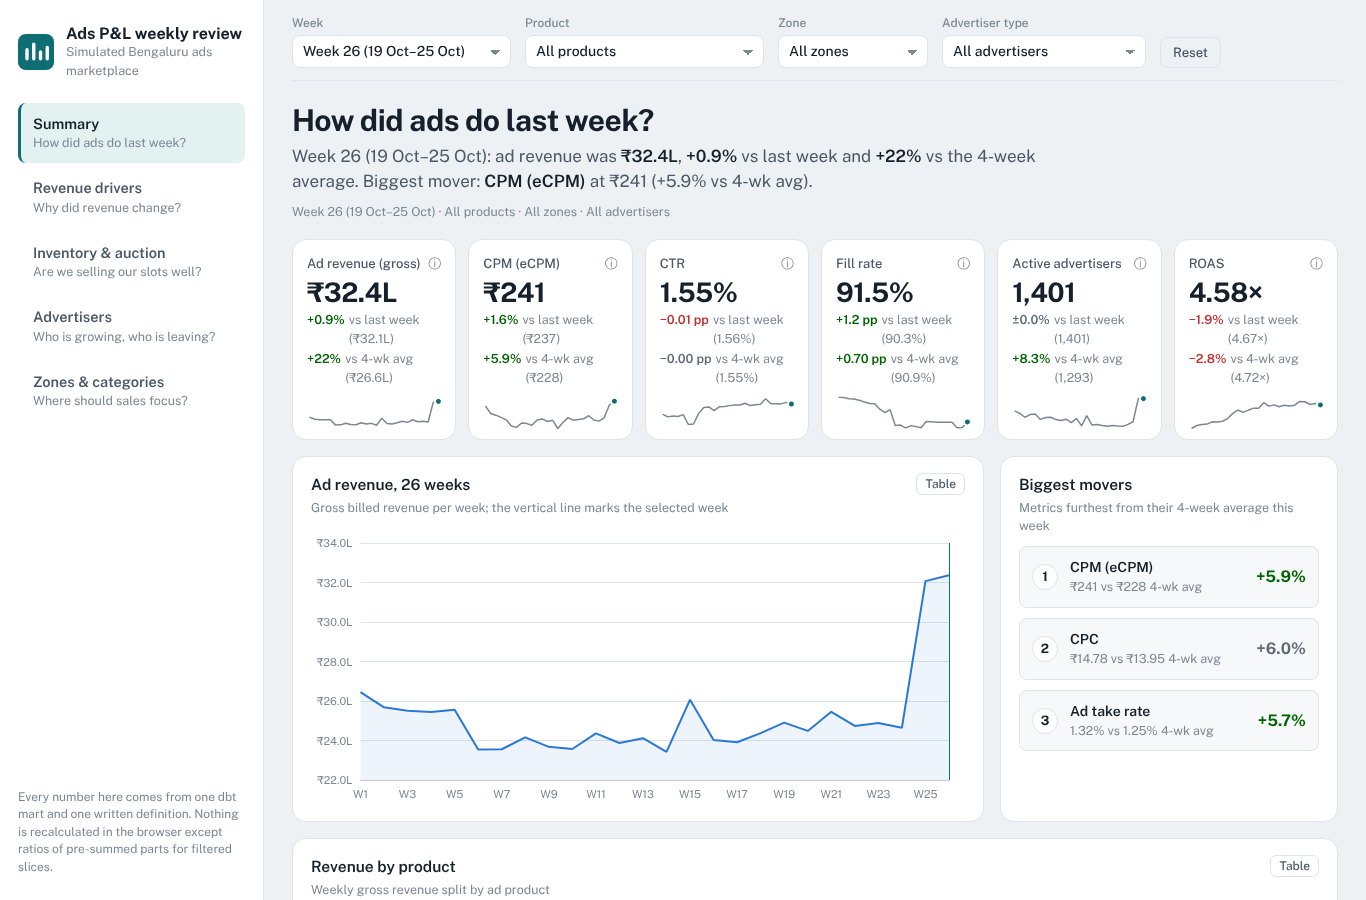
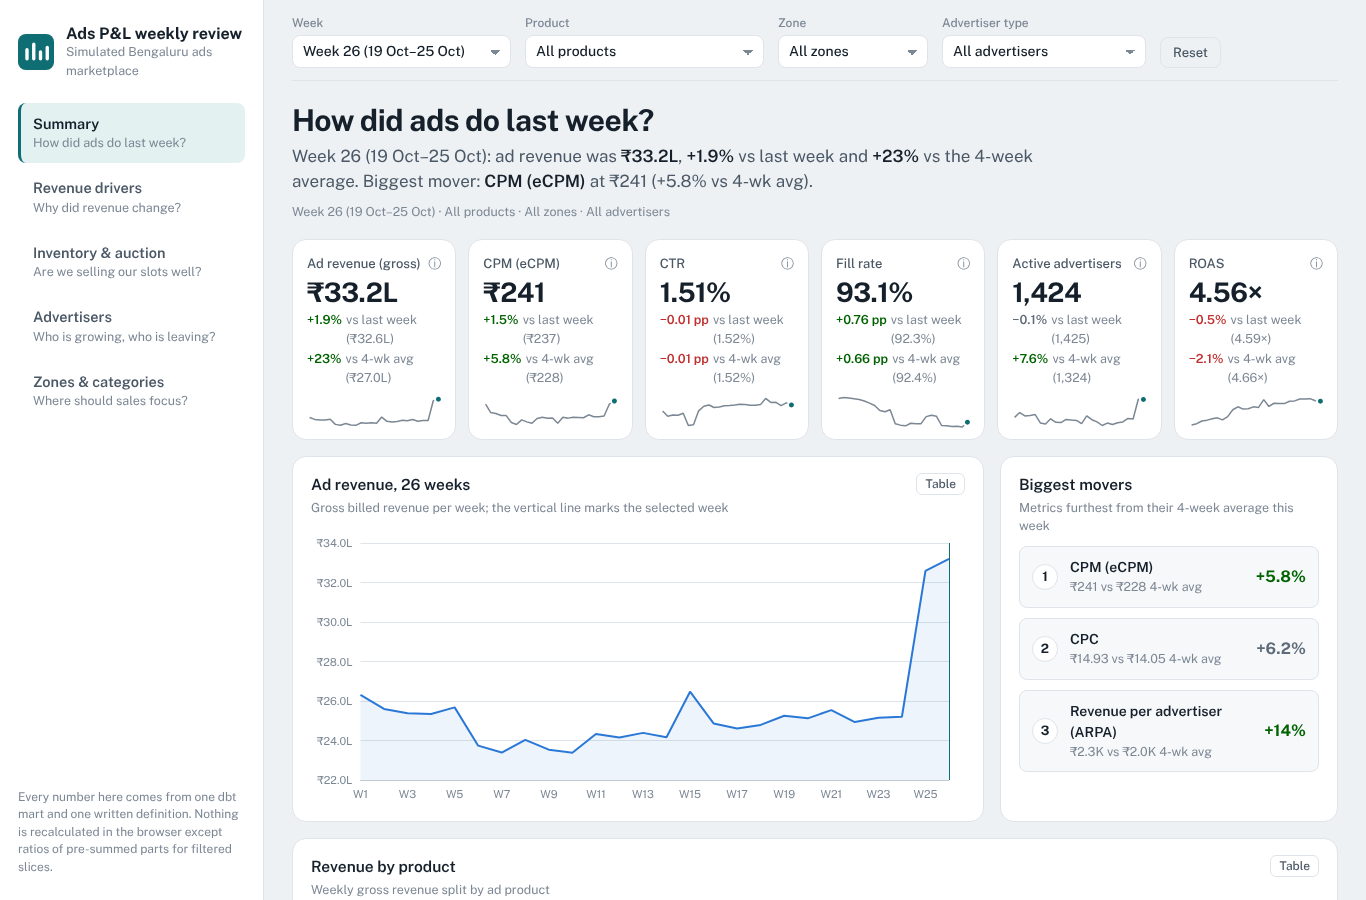
README and showcase: final numbers and screenshots; Sheets README

diff --git a/docs/showcase.md b/docs/showcase.md
@@ -4,16 +4,16 @@
 
 ## Resume bullets
 
-- Built an end-to-end **ads P&L reporting system** for a simulated Bengaluru food + quick-commerce ads marketplace. It covers **~290 M impressions, 4.4 M clicks and 2,300 advertisers over 26 weeks**, using Python, dbt and DuckDB (BigQuery-ready), with automated weekly refreshes on GitHub Actions.
+- Built an end-to-end **ads P&L reporting system** for a simulated Bengaluru food + quick-commerce ads marketplace. It covers **~295 M impressions, 4.4 M clicks and 2,300 advertisers over 26 weeks**, using Python, dbt and DuckDB (BigQuery-ready), with automated weekly refreshes on GitHub Actions.
 - Defined **24 ads KPIs** (revenue, eCPM, CTR, fill rate, ROAS, bid density, reserve-binding rate, budget utilisation, churn…) in a single dbt metric catalogue, guarded by **91 automated data-quality tests**: reconciliation to billing, no-overspend, completeness, and grain uniqueness.
 - Shipped a **5-page live dashboard** and a **Google Sheets variance model**. Both include a revenue bridge that splits each weekly change into requests, fill rate, CTR and CPC, and the bridge reconciles to the rupee.
-- Diagnosed **7 planted KPI anomalies** and wrote one-page WBRs. One example: an 8% CTR drop traced to a single Android ad slot (₹1.35 L/week). Another: a reserve-price change that raised banner CPM 10% but cut banner revenue 18%. A third: a one-day CTR dip proven to be a logging gap, not a business change.
+- Diagnosed **7 planted KPI anomalies** and wrote one-page WBRs. One example: an 8% CTR drop traced to a single Android ad slot (₹1.36 L/week). Another: a reserve-price change that raised banner CPM 8% but cut banner revenue 9%. A third: a one-day CTR dip proven to be a logging gap, not a business change.
 
 ## 2-minute interview story
 
 1. **Why.** Ads is a high-margin growth line for food and quick-commerce apps, so I built the weekly reporting an ads team runs every Monday.
 2. **What.** It's a seeded simulator of second-price auctions across 15 Bengaluru zones and 3 ad products, feeding a dbt warehouse with one tested metric layer, a live dashboard and a Sheets variance model.
-3. **Best finding (week 12).** Leadership raised the banner reserve price 20% expecting flat revenue. Banner CPM rose 10%, but fill fell from 84% to 64% because 17 of 37 banner campaigns now bid under the floor. Revenue fell 17.6%, about ₹6 L over the half. I recommended reverting, or A/B-testing ₹150 by zone.
+3. **Best finding (week 12).** Leadership raised the banner reserve price 20% expecting flat revenue. Banner CPM rose 8%, but fill fell from 91% to 77% because 19 of 42 banner campaigns now bid under the floor. Banner revenue fell 9%, about ₹3.5 L over the half. I recommended reverting, or A/B-testing ₹150 by zone.
 4. **Rigor.** I planted the anomalies with an answer key that no model reads, so I can show my analysis found the real causes. In week 24 it also told a *data* problem apart from a *business* problem: billed and logged clicks disagreed on one day while orders per impression held steady.
 5. **Next.** An A/B-test module (CUPED, guardrails) using the same simulator, where I know the true effect.
 
@@ -21,7 +21,7 @@
 
 > I built the weekly ads P&L reporting an ads team would run, for a *simulated* Bengaluru food + quick-commerce marketplace: auction simulator → dbt warehouse (24 KPIs, 91 tests) → live dashboard → one-page business reviews.
 >
-> Favourite finding: a 20% reserve-price increase raised banner CPM 10% but cut banner revenue 18%, because 17 of 37 campaigns were priced out of the auction. Higher price ≠ higher revenue when fill collapses.
+> Favourite finding: a 20% reserve-price increase raised banner CPM 8% but cut banner revenue 9%, because 11 more campaigns were priced out of the auction. Higher price ≠ higher revenue when fill collapses.
 >
 > Dashboard: http://vivekbuilds.me/swiggy-ads-pnl/ · Code: github.com/Vivek-122005/swiggy-ads-pnl
 > (All data simulated; restaurant/brand names from public Kaggle datasets.)

diff --git a/README.md b/README.md
@@ -17,12 +17,14 @@ Seven events were planted in the simulator with a hidden answer key; each WBR fi
 
 | Week | What the data showed | Root cause found | Impact | Memo |
 |---|---|---|---|---|
-| 6 | Revenue −7.9%; CTR −0.08 pp | Half post-IPL traffic (seasonal); half a **rate** drop isolated to **Android slot 1** (2.36% → 1.38%) → app release | −₹1.35 L/week until hotfix | [WBR 6](reports/wbr_week_06.md) |
-| 9 | Instamart revenue −5.3%, top-10 share 16.9% → 14.0% | Largest Instamart brand **paused all campaigns**; thin categories (frozen, baby care) lost 14 pp fill | −₹0.48 L/week; concentration risk | [WBR 9](reports/wbr_week_09.md) |
-| 12 | Banner CPM +10% but banner revenue −17.6% | **Reserve +20%** priced out 9 advertisers; fill 84% → 64%, reserve-binding 35% → 57% | −₹0.43 L/week (~₹6 L over the half) | [WBR 12](reports/wbr_week_12.md) |
-| 21 | CTR up, Whitefield CVR 10.5% → 8.3% | **Click bot**: 40 IDs, 4,463 clicks, 0 orders | ₹0.57 L billed invalid traffic to credit | [WBR 21](reports/wbr_week_21.md) |
-| 24 | CTR 1.36% on one day | **Data, not business**: click log lost 10.1% of events; billing and orders per impression normal | Attribution understated ~8% that day | [WBR 24](reports/wbr_week_24.md) |
-| 15, 25–26 | Requests and orders spike | Heavy rain (CTR flat, ROAS up) and the Navratri–Dussehra festive fortnight (+29% revenue, new advertisers ×3) | Seasonality — no action | [notebooks](analysis/) |
+| 6 | Revenue −7.6%; CTR −0.08 pp | Half post-IPL traffic (seasonal); half a **rate** drop isolated to **Android slot 1** (2.35% → 1.37%) → app release | −₹1.36 L/week until hotfix | [WBR 6](reports/wbr_week_06.md) |
+| 9 | Instamart revenue −6.8%, top-10 share 16.7% → 14.0% | Largest Instamart brand **paused all campaigns**; thin categories (frozen, baby care) lost 15 pp fill | −₹0.50 L/week; concentration risk | [WBR 9](reports/wbr_week_09.md) |
+| 12 | Banner CPM +8% but banner revenue −9.1% | **Reserve +20%** priced out 11 advertisers; fill 91% → 77%, reserve-binding 25% → 52% | −₹0.25 L/week (~₹3.5 L over the half) | [WBR 12](reports/wbr_week_12.md) |
+| 21 | CTR up, Whitefield CVR 11.1% → 8.4% | **Click bot**: 40 IDs, 4,131 clicks, 0 orders | ₹0.54 L billed invalid traffic to credit | [WBR 21](reports/wbr_week_21.md) |
+| 24 | CTR 1.34% on one day | **Data, not business**: click log lost 9.7% of events; billing and orders per impression normal | Attribution understated ~8% that day | [WBR 24](reports/wbr_week_24.md) |
+| 15, 25–26 | Requests and orders spike | Heavy rain (CTR flat, ROAS +11%) and the Navratri–Dussehra festive fortnight (+29% revenue, new advertisers ×3) | Seasonality — no action | [notebooks](analysis/) |
+
+Plus a [category & advertiser insight note](reports/category_advertiser_insights.md): ~₹43 L/week of unspent budget sits with high-ROAS advertisers whose bids lose auctions — the biggest growth lever.
 
 ## What it answers
 
@@ -119,5 +121,5 @@ tests/                     pytest for simulator logic
 
 ## Numbers at a glance (26 weeks, simulated)
 
-~₹6.5 Cr gross ad revenue · ~310 M ad requests · ~290 M impressions · 4.4 M valid clicks · 0.5 M orders ·
+~₹6.6 Cr gross ad revenue · ~313 M ad requests · ~295 M impressions · 4.4 M valid clicks · 0.5 M orders ·
 2,300 advertisers (2,000 restaurants, 300 brands) · 24 metrics · 91 dbt tests (89 pass + 2 intended warnings: the festive revenue jump and the tracking-bug day).

diff --git a/sheets/README.md b/sheets/README.md
@@ -1,0 +1,29 @@
+# Google Sheets variance model + Data Studio
+
+*All data is simulated. Not Swiggy data.*
+
+```
+GitHub Actions (every Monday) ──► dbt marts ──► dashboard/site/data/*.csv on Pages
+                                                     │  IMPORTDATA (auto-refresh)
+                                                     ▼
+                                    Google Sheet "Ads P&L — weekly variance analysis"
+                                      ├─ Variance  (formulas: scorecard, revenue bridge,
+                                      │             product & zone variance, CTR mix vs rate)
+                                      ├─ Pivot     (zone × week revenue)
+                                      └─ grey data tabs (kpi_weekly, kpi_cube, …)
+                                                     │  Google Sheets connector
+                                                     ▼
+                                    Data Studio report (5 pages, shareable link)
+```
+
+## Build the Sheet
+
+1. Create a blank Google Sheet and copy its id from the URL.
+2. Go to [script.google.com](https://script.google.com) → New project. Paste [`build_variance_workbook.gs`](build_variance_workbook.gs) and set `SPREADSHEET_ID`.
+3. Run `buildAdsPnlWorkbook` and approve access to Sheets and external URLs (needed for `IMPORTDATA`).
+
+The Variance tab only has formulas: pick a week (2–26) and a product in `B4:B5`, and every section recomputes from the live data tabs. Each section ends with a check row: the bridge effects must add up to the revenue change, and the mix and rate effects must add up to the actual CTR change.
+
+## Why Sheets and not BigQuery for Data Studio
+
+The data is pre-aggregated (a few thousand rows), so a Sheet is a free, zero-maintenance source that refreshes with the pipeline. The dbt project still has a `bigquery` target; use [`scripts/load_bigquery.py`](../scripts/load_bigquery.py) if you want Data Studio on BigQuery instead.
